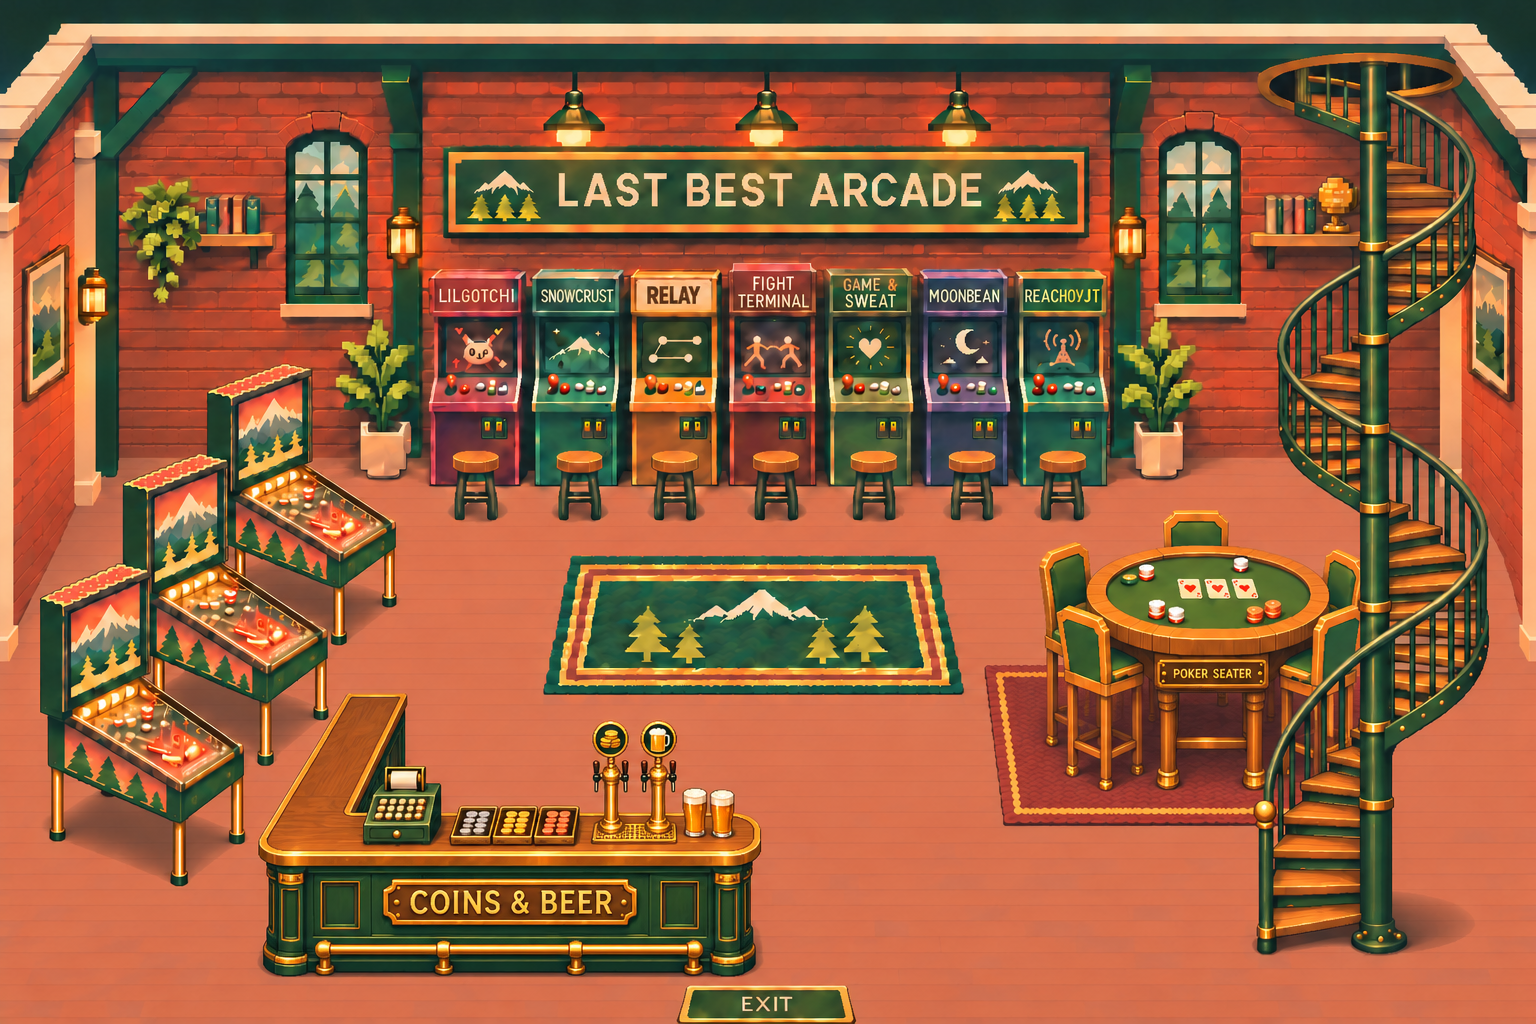
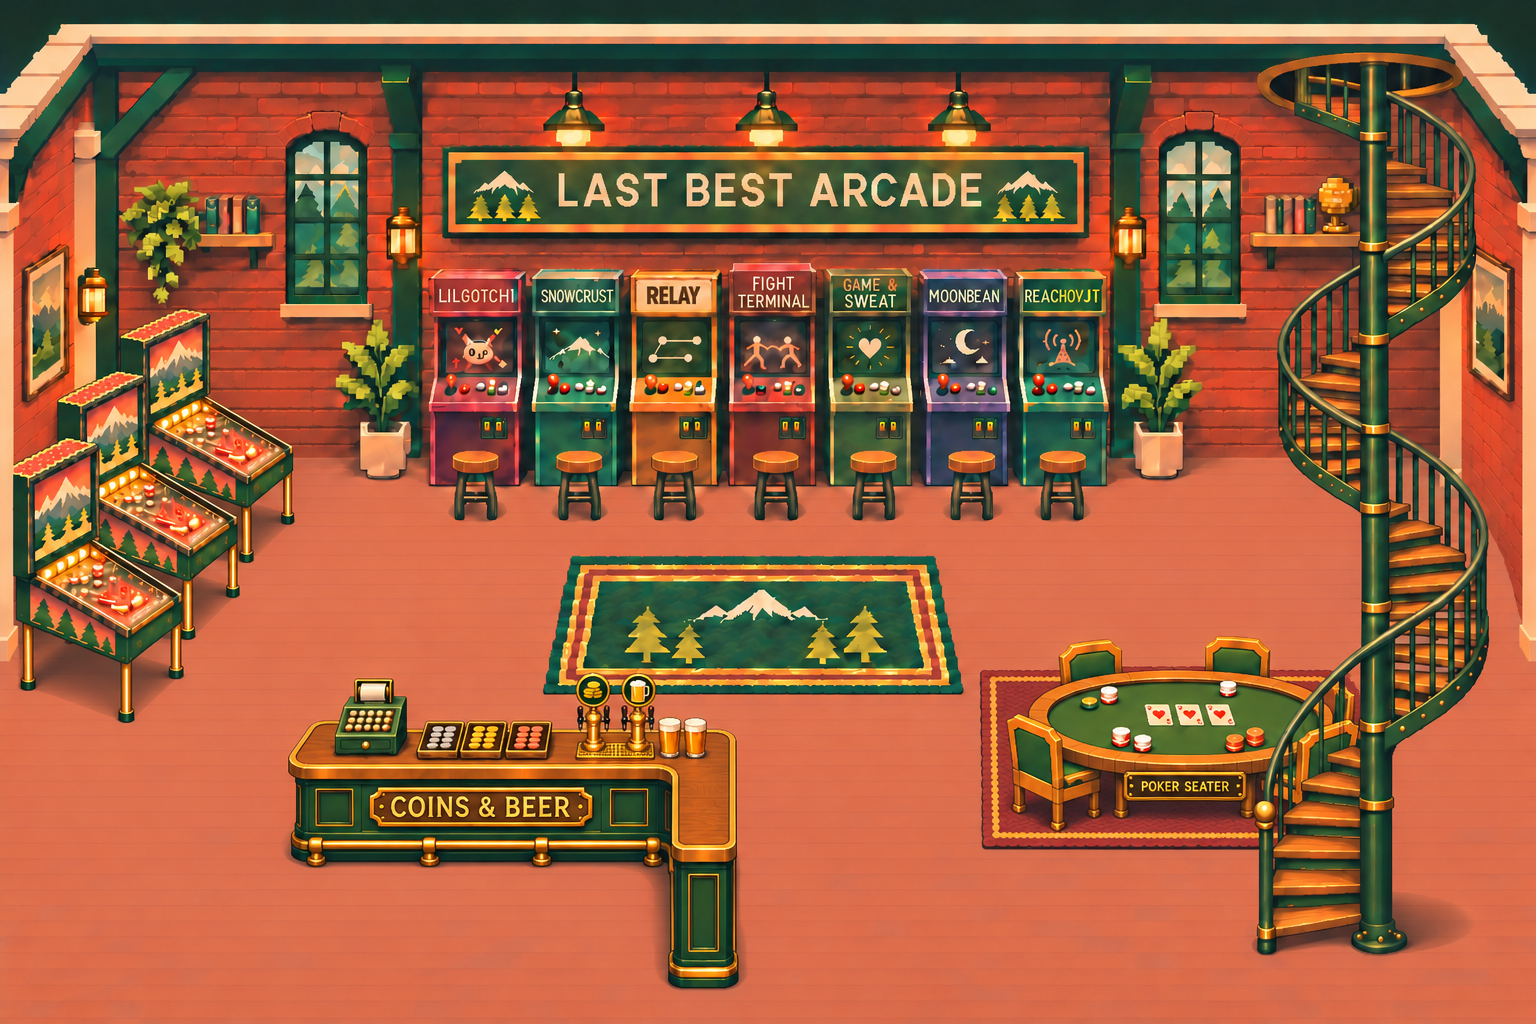
correct arcade layout (#140)

diff --git a/eightbit/scenes.js b/eightbit/scenes.js
@@ -23,12 +23,12 @@ export const scenes = {
   arcade: {
     name: 'last best arcade', subtitle: 'quarters in. real world out.', width: 768, height: 512,
     spawn: { x: 408, y: 456 }, bounds: [16, 256, 752, 504], grid: 8,
-    obstacles: [[100,256,100,70], [60,300,105,80], [16,360,108,84], [520,256,160,160], [630,30,120,450], [130,410,250,78], [130,348,74,62]],
+    obstacles: [[60,230,90,52], [30,260,90,62], [5,300,90,62], [500,336,180,90], [630,30,120,450], [145,360,223,72], [335,400,34,92]],
     points: [
       ...[['lilgotchi','meet lilgotchi',240],['snowcrust','play snowcrust',288],['relay','try relay',336],['fight','fight terminal',384],['sweat','mr game and sweat',432],['moonbean','moonbean coffee',480],['reachoutt','reachoutt',528]].map(([id,label,x]) => point(id,label,x === 528 ? 504 : x,280,`project:${id}`,{hit:[x-22,132,44,128]})),
       point('hidden-cypunk','look beside the pinball',224,328,'find:cypunk',{hit:[213,315,24,32]}),
-      point('poker','poker seater',480,360,'project:poker',{hit:[520,256,160,160]}),
-      point('pizza','coins and beer',408,440,'coins',{hit:[130,348,250,140]}),
+      point('poker','poker seater',480,384,'project:poker',{hit:[500,336,128,90]}),
+      point('pizza','coins and beer',408,440,'coins',{hit:[145,360,224,132]}),
       point('photo','take a photo',480,376,'photo'),
       point('roof','stairs to the rooftop',608,456,'roof',{hit:[628,344,120,136]}),
       point('exit','back to main street',400,488,'room:town',{hit:[336,480,96,32]}),
@@ -100,7 +100,7 @@ export function findSmoothPath(scene, from, to) {
       const target = route[i], steps = Math.ceil(Math.hypot(target.x-anchor.x,target.y-anchor.y) / .5);
       let clear = true;
       for (let n = 0; n <= steps; n++) {
-        if (!isWalkable(scene, anchor.x+(target.x-anchor.x)*n/steps, anchor.y+(target.y-anchor.y)*n/steps, 7.5)) { clear = false; break; }
+        if (!isWalkable(scene, anchor.x+(target.x-anchor.x)*n/steps, anchor.y+(target.y-anchor.y)*n/steps, scene === scenes.arcade ? 16.5 : 7.5)) { clear = false; break; }
       }
       if (!clear) break;
       end = i;

diff --git a/eightbit/residents.js b/eightbit/residents.js
@@ -140,7 +140,7 @@ export function drawResident(ctx, resident, time, reduced, roomScale = 1) {
 
 // Regulars stay at decorative machines, leaving every project cabinet available.
 export const arcadeRegulars = [
-  [216, 316, 0, 'pinball'], [178, 336, 4, 'pinball'], [600, 318, 5, 'poker'],
+  [168, 272, 0, 'pinball'], [137, 310, 4, 'pinball'], [546, 382, 5, 'poker'],
 ].map(([x, y, look, playing]) => ({ x, y, look: { ...looks[look], scale: arcadePersonScale }, direction: playing === 'poker' ? 'down' : 'up', playing }));
 
 export function drawArcadeRegular(ctx, resident, time, reduced) {

diff --git a/8BIT_MISSOULA_TODO.md b/8BIT_MISSOULA_TODO.md
@@ -76,3 +76,5 @@ SBG Missoula: https://sbgmissoula.com/
 The coin counter is now an L shaped coins and beer bar at the front. The poker table is taller and sits partly behind the staircase. Updated walking areas keep the exit and every cabinet reachable.
 
 Arcade people now share a larger indoor scale so the player, visitors and regulars fit the cabinets, pinball controls and poker seating. Walking clearance is wider, pinball poses and the poker crop were adjusted, and visitor destinations follow the current furniture layout.
+
+Corrected the bar orientation to run up from the entrance and turn left. Lowered and widened the poker table, pushed the three pinballs against the left wall, and moved the regulars and walking areas to match.
